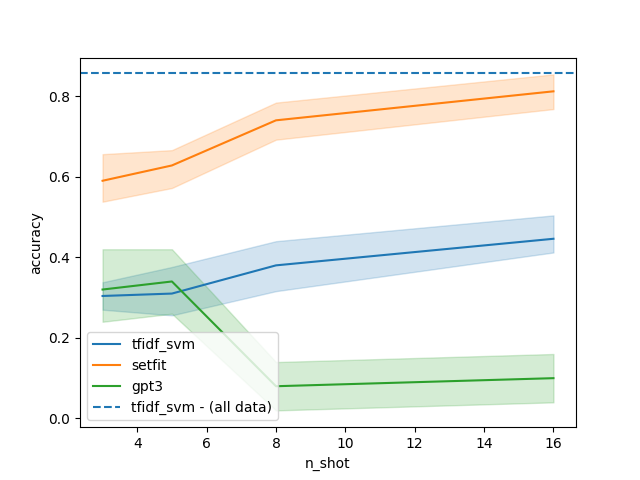
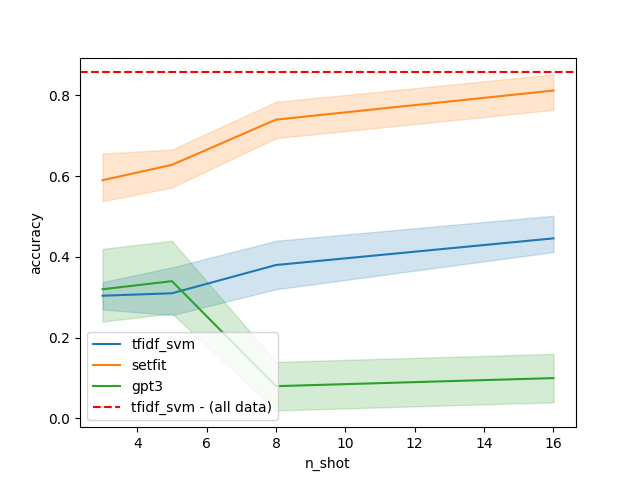
Add different colors for all results

diff --git a/src/create_graph.py b/src/create_graph.py
@@ -45,8 +45,14 @@ def create_graph(results_path="results", dataset="imdb", figures_path="figures")
     few_shot_data = pd.DataFrame(few_shot_data)
     line_plot = sns.lineplot(few_shot_data, x="n_shot", y="accuracy", hue="model")
 
-    for result in all_data:
-        line_plot.axhline(result["accuracy"], linestyle="--", label=result["model"])
+    all_colors = ["r", "b"]
+    for i, result in enumerate(all_data):
+        line_plot.axhline(
+            result["accuracy"],
+            linestyle="--",
+            label=result["model"],
+            color=all_colors[i],
+        )
 
     handles, labels = line_plot.get_legend_handles_labels()
     line_plot.legend(handles, labels)
